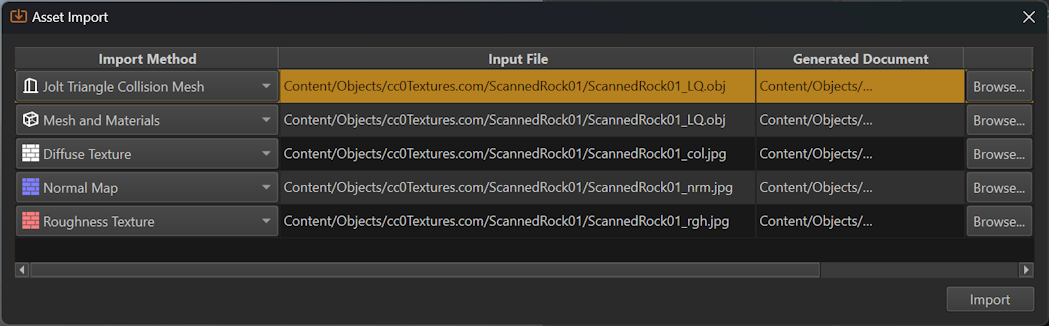
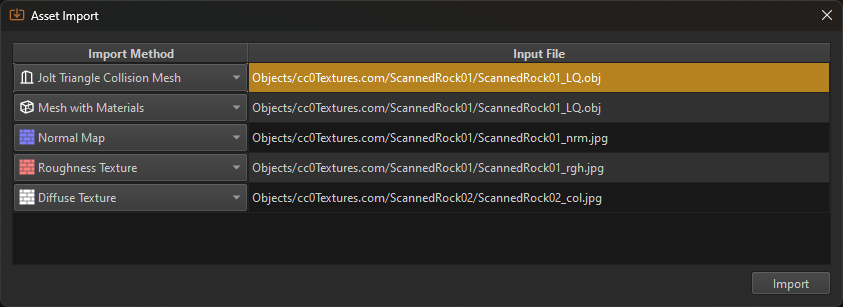
asset import

diff --git a/pages/docs/assets/import-assets.md b/pages/docs/assets/import-assets.md
@@ -8,7 +8,9 @@ To create these documents you have two options: Manual or automatic import.
 
 ## Create Documents Manually
 
-You can manually create documents via *File > Create...*. In the file creation dialog, choose the file extension for the desired asset type and specify where to store the document. The newly created document will be in a blank state. You will need to fill out all the properties, including where the source files are located.
+You can manually create documents by right clicking into the [asset browser](asset-browser.md) and selecting *New > Asset Type*. If you right clicked free space, the asset document will be created in the folder that is selected on the left. If you right clicked another document, the new document will be created in the same folder as the selected asset.
+
+The new document will be in a blank state. You need to fill out all the properties, including where the source files are located.
 
 This method always works for all asset types and for some types it is the only way. Since this method always involves multiple, mostly simple steps, it can become tedious. Therefore, some asset types provide a way to automate much of this process.
 
@@ -16,7 +18,13 @@ This method always works for all asset types and for some types it is the only w
 
 For asset types that are mostly defined by a single source file (e.g. [textures](../graphics/textures-overview.md) and [meshes](../graphics/meshes/mesh-asset.md)), the editor often provides an importing method that automates most of the trivial setup.
 
-The most convenient way is to find the source asset file in the [asset browser](asset-browser.md) (ensure it shows *importable files*), right-click on it and select **Import As**. This sub-menu makes it possible to quickly import one or multiple assets as a specific asset type. It does so fully automatically. If you want to have a few more options, select **Import...** instead.
+### Quick Import
+
+The **most convenient** way is to find the source asset file in the [asset browser](asset-browser.md) (ensure it shows *importable files*), right-click on it and select **Import As**. This sub-menu makes it possible to quickly import one or multiple assets as a specific asset type. It does so fully automatically. For some file types this method also allows to import assets quickly multiple times. For example, [animation clips](../animation/skeletal-animation/animation-clip-asset.md) are often packed into a single file, which requires them to be imported many times.
+
+### Controlled Import
+
+If you want to have a few more options, select **Import...** instead.
 
 Another method is to select **Project > Import Assets...** or press **CTRL+I** to open a file browse dialog. Navigate to the file(s) that you want to import and select them. If you want to know which asset types are currently supported for automatic import, you can open the dropdown with the allowed file extensions here.
 
@@ -26,15 +34,15 @@ Afterwards, you will be presented with a table of options how to import the sele
 
 Here we selected four files for import. One .obj file and three .jpg files. The automatic import uses heuristics to make an educated guess how to import certain source files. Here it already suggests to import the "_col.jpg" file as a diffuse texture, the "_nrm.jpg" file as a normal map and so on. If the heuristic is incorrect, you can use the dropdown on the left to fix it.
 
-It also suggests the target document file name. You can either click *Browse* or double click into the text field to change the target file name.
-
 Some source files can be imported in multiple ways. For example the .obj file could be imported as a mesh for rendering or as a mesh for physics. Often you want to import the same mesh for both, so you want two asset documents (a *Mesh* and a *Collision Mesh*) which reference the same input file. Therefore this table lists the .obj file twice but with different import options in the dropdown box. If, for example, you do not want a mesh to be imported as collision mesh, at all, you can just select *No Import* from the respective dropdown.
 
-Once you click *Import* the asset documents are generated and you can then open them. If background asset processing is enabled, the editor will already start transforming the asset data. Otherwise open each document and click the button of a white box with the green arrow to manually trigger the asset transform.
-
-![Transform Asset](media/transform-asset.png)
+Once you click *Import* the asset documents are generated and you can then open them. If background asset processing is enabled, the editor will already start [transforming](assets-overview.md#asset-transform) the asset data.
 
 The automatic import creates the documents using a set of rules to fill out its properties, depending on the template that you selected for it. So for example an image imported as a "diffuse texture" and one imported as a "normal map" are mostly the same, except that a few options are already configured in a certain way for you. You should review all options for correctness afterwards.
+
+### Import Via Drag And Drop
+
+The methods above assume that the source asset is already present inside one of the project's [data directories](../projects/data-directories.md). If that is not the case, you can drag and drop a file into the [asset browser](asset-browser.md) to copy the file into the selected directory. This also automatically launches the asset import dialog mentioned above.
 
 ## Video: How to import textures
 

diff --git a/pages/docs/animation/skeletal-animation/animation-clip-asset.md b/pages/docs/animation/skeletal-animation/animation-clip-asset.md
@@ -10,6 +10,12 @@ An animation clip represents a single motion, such as a walk cycle, a jump or ot
 >
 > In animation graph nodes animation clips are **not referenced directly** but rather through a name mapping. This mapping is configured in the [animation graph asset](animation-graphs/animation-graph-asset.md).
 
+## Importing Many Animation Clips Quickly
+
+In the [asset browser](../../assets/asset-browser.md) select to show `<Importable Files>` then find your source animation clip file. Right click on it, and from the *Import As* sub-menu select `Animation Clips (All)`. Finally, select an [animated mesh](animated-mesh-asset.md) as the preview model.
+
+After this, the editor creates a new animation clip document for each animation that it finds in the file.
+
 ## Asset Properties
 
 * `File`: The file from which to import the animation clip.
